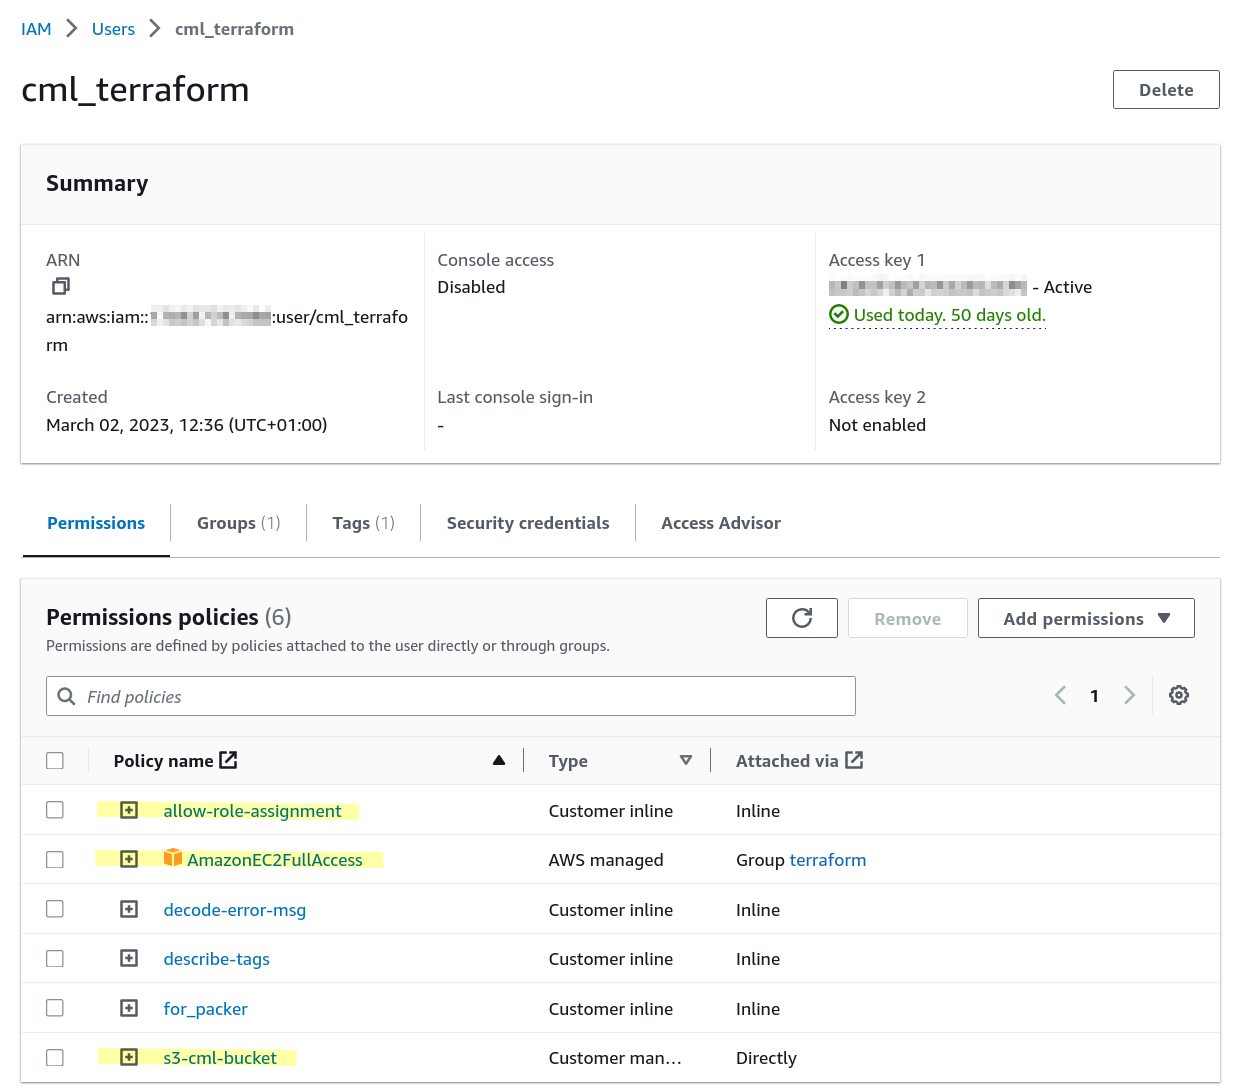
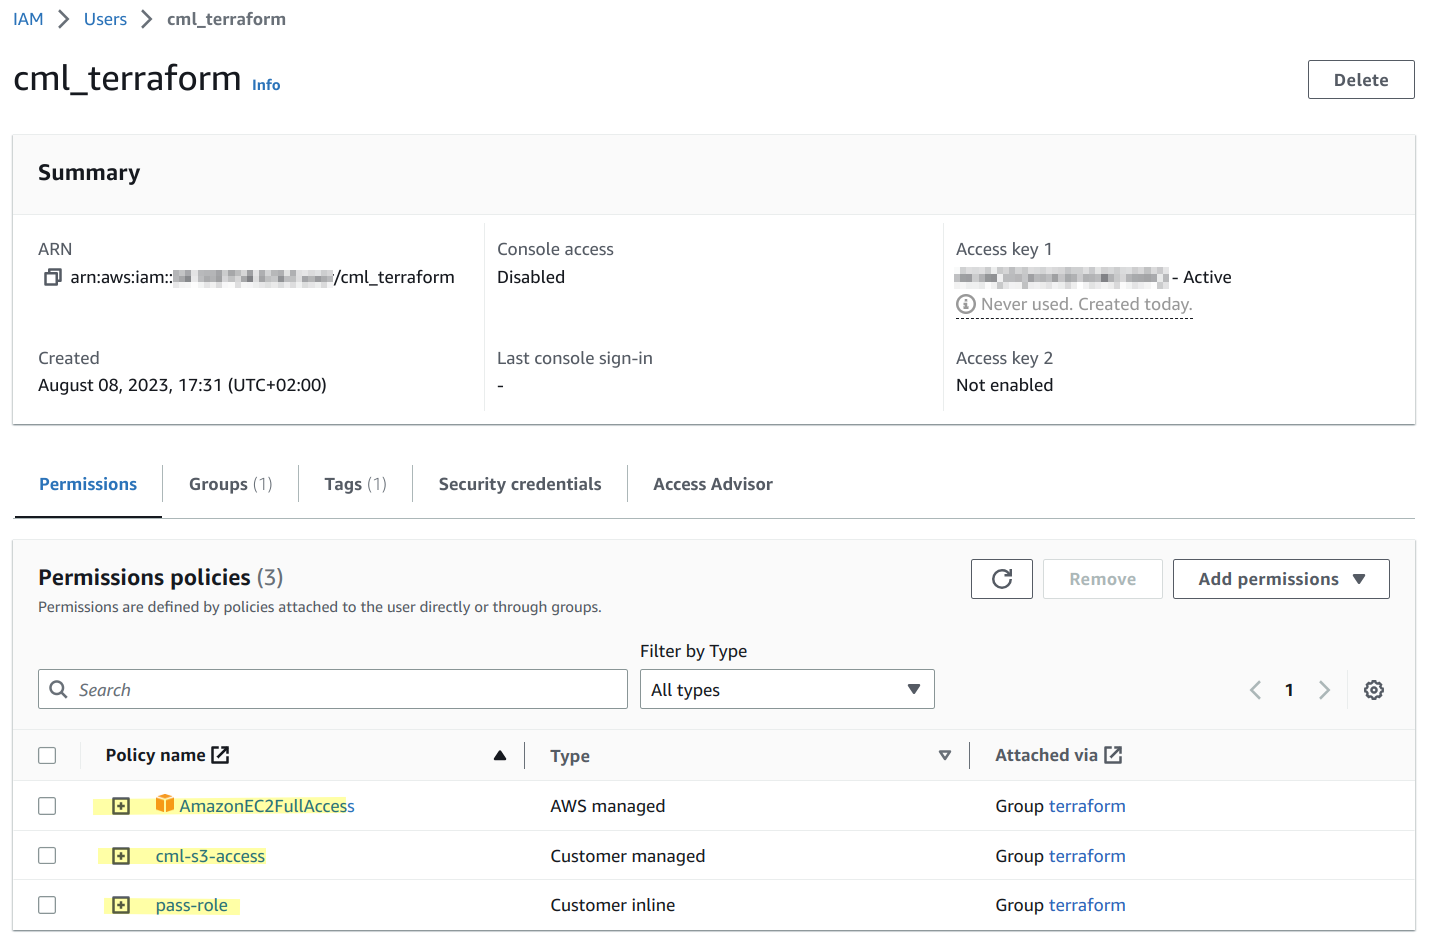
documentation improvement and small fixes
- improved upload tool, fixes #2
    - better error handling in case no images are available
    - modified help text
- completely reworked the AWS policy creation section to
  provide step-by-step instructions to accurately describe the
  policy creation process
- better describe where the .deb package can be found, fixes #3
- added the current ref-plat images to the `config.yml` file
- provided the current .pkg file name to the `config.yml` file

diff --git a/README.md b/README.md
@@ -1,6 +1,6 @@
 # README
 
-Version 0.1.3, June 5 2023
+Version 0.1.4, August 10 2023
 
 This repository includes scripts, tooling and documentation to provision an instance of CML on Amazon Web Services (AWS).
 
@@ -69,41 +69,22 @@ If you need to use a proxy to access AWS then define it using environment variab
 
 This section describes the resources required by the provisioning scripts to successfully deploy CML on AWS. These configurations and policies need to be created prior to using the tooling. This can be done on the AWS console or via the preferred deployment method (e.g. also via Terraform).
 
-### IAM User
+> **Note** There's also a [video on YouTube](https://youtu.be/vzgUyO-GQio) which shows all the steps outlined below.
 
-A user is needed which can be used by Terraform to deploy the CML instance. This user needs to have certain permission policies assigned. Permission policies are created and assigned via IAM, either direct to the user or via a group assignment. The required policies are listed in the next sections.
+### IAM user and group
 
-The below screen shot shows an example of such a user with the required permission policies highlighted where the name of the user is "cml_terraform".
+A user is needed which can be used by Terraform to deploy the CML instance. It is recommended to also create a group and attach the required policies to the group. A user is then created and assigned to this group in the final step below. This user inherits the policies from the group.
 
-![](images/permissions.png)
+- click "User groups"
+- click "Create group"
+- enter a name ("terraform")
+- click "Create group"
 
-#### Pass Role
+### S3 access / bucket policy
 
-This "deployment" user needs to be able to pass the role defined in the previous section to the EC2 instances it creates. The 'allow-role-assignment' policy is defined as follows:
+Next, we will create an S3 access policy which is reused to manage the bucket containing the reference platform as well as during CML deployment to allow copying the reference platform images to the EC2 instance.
 
-```json
-{
-    "Version": "2012-10-17",
-    "Statement": [
-        {
-            "Sid": "VisualEditor0",
-            "Effect": "Allow",
-            "Action": "iam:PassRole",
-            "Resource": "arn:aws:iam::ACCOUNTIDGOESHERE:role/s3-access-for-ec2"
-        }
-    ]
-}
-```
-
-> **Note** The account ID `ACCOUNTIDGOESHERE` in the policy JSON above must be replaced with your specific account ID. The account ID can be copied from the AWS management console at the top right when clicking on the logged in user. The account ID is shown in the drop down with a "copy to clipboard" button.
-
-#### EC2 Access
-
-The user needs permission to create, read, update and destroy EC2 instances. During internal testing, the predefined `AmazonEC2FullAccess` policy was permitted. This could likely be tightened further by removing unnecessary permissions.
-
-#### S3 access policy
-
-A role needs to be defined in IAM which permits access to the S3 bucket that holds the required files, software and reference platform images. Here's the JSON of an example role which has the minimum permissions defined (in the above example for the 'cml_terraform' user, the name of this permission policy is 's3-cml-bucket'):
+To create the policy, go to "Policies", then click "Create policy". There select "JSON" instead of "Visual" at the top right and paste the following JSON:
 
 ```json
 {
@@ -126,31 +107,115 @@ A role needs to be defined in IAM which permits access to the S3 bucket that hol
 }
 ```
 
-> **Note** The `bucket-name` in the resource list above needs to reflect the actual bucket name in use. This role is used to allow access to the specified S3 resource for the EC2 instance that is launched.
+Replace "bucket-name" to the bucket name of your S3 bucket. This permits Read/Write and List access to the specified bucket and all objects within that bucket.
 
-The `PutObject`, `GetObject` and `ListBucket` actions are required. Technically, the CML EC2 instance itself only needs to read and list objects. So, if this particular role is only used for the EC2 instance and not for e.g. maintenance tasks, then the `put` permission can be removed.
+> **Note** This could be further tightened by removing the "PutObject" action from the policy as the EC2 instance / the CML controller only needs read access ("GetObject") and not write access access ("PutObject"). However, to upload images into the bucket, the write access is required at least initially.
 
-To upload images into the bucket using the AWS CLI, the `PutBucket` permission from the role defined above is required. If distinct users for S3 management tasks (uploading images) and for managing EC2 instances are used, then the S3 access permission is not required for the "deployment" user.
+Click "Next" and provide a policy name, "cml-s3-access" for example. Finally, click "Create policy".
 
-#### Access role
+### Create Role
 
-Finally, a role needs to be created which ties these elements together: The policy `s3-cml-bucket` from above is attached to this role. In this example, the name of the role that was created is `s3-access-for-ec2`. Within the role, the `s3-cml-bucket` permission policy is added. The name of this role is then referenced within the "pass role" permission added to the deployment user. Ensure that the name of the access role matches the name that is configured in the "pass role" permission policy of the deployment user.
+Now that we have the S3 access policy, we can create a role that uses this policy.
 
-This 'access role' is then configured in the `config.yml` attribute 'aws.profile' (see below).
+1. go to "Roles"
+2. click "Create role"
+3. select "AWS service" for the "Trusted entity type" (the default)
+4. select "EC2" for the "Use case"
+5. click "Next"
+6. select the S3 access policy that was created in the previous section ("cml-s3-access") from the permission policy list
+7. scroll to the bottom and click "Next"
+8. provide a role name, use "s3-access-for-ec2" (this is important to note as this is the policy name that is also referenced in the Terraform configuration to deploy CML)
+9. click "Create role" at the bottom right
+
+### Attach policies to user
+
+In the third step we attach permission policies to the group created in the step above. The policies in question are 
+
+- AmazonEC2FullAccess, a pre-defined policy that allows to control EC2 instances
+- cml-s3-access, the S3 access policies allowing users in this group to read/write/list objects in the bucket specified by the policy
+- the "pass role" policy which passes the permission allowing access to the S3 bucket to EC2 instances the users in this group create
+
+To add these permission follow these steps:
+
+#### EC2 policy
+
+- click on "Add permissions"
+- select "Add permissions" from the drop down
+- select "Attach policies directly"
+- search for "EC2Full" which will result in the "AmazonEC2FullAccess" policy
+- select this policy
+- click "Next"
+- click "Add permissions"
+
+#### S3 access policy
+
+- click on "Add permissions"
+- select "Add permissions" from the drop down
+- select "Attach policies directly"
+- select "Customer managed" in the "Filter by type" drop down
+- select the "cml-s3-access" customer managed policy (the one we created above)
+- click "Next"
+- click "Add permissions"
+
+#### Pass role policy
+
+- click on "Add permissions"
+- select "Create inline policy" from the drop down
+- click on "IAM" from the "Select a service" section
+- click on the "Write" Access level section
+- select the "PassRole" write action
+- in the "Resources" section click "Add arn"
+- in the dialog "Specify ARNs"
+  - click "This account"
+  - in the last field, add the "cml-s3-access" policy to the end of the arn. It will look like "arn:aws:iam::111111111111111:role/cml-s3-access" (where the numbers represent your account ID, which is already inserted for you by the UI)
+  - click "Add ARN"
+- click "Next"
+- provide a Policy name, "pass role" works
+- click "Create policy"
+
+#### Create user
+
+The final step is to create a user and associate it with the group
+
+- click on "Users"
+- click "Add users"
+- provide a user name
+- click "Next"
+- select "Add user to group" (the default)
+- select the group previously created ("terraform")
+- click "Next"
+- click "Create user"
+
+#### Create credentials
+
+The final step is about creating access credentials that can be used with Terraform. We need an access key and a secret key. 
+
+- click on "Users"
+- select the "cml_terraform" user
+- click on the "Security credentials" tab
+- scroll down to the "Access keys" section
+- click on "Create access key"
+- make a note of the access key and the secret key (copy them into an editor so that they can be later used when editing the `config.yml` of the deployment tool)
+
+This access key and the associated secret key must be provided to the AWS Terraform provider via the the variables `access_key` and `secret_key`, ideally via environment variables or a vault. See the Variables section below.
+
+#### Example
+
+The below screen shot shows an example of such a user with the required permission policies highlighted where the name of the user is "cml_terraform". Note that the required permission policies are listed. They are inherited from the "terraform" group. There's also an access key that has been created for this user.
+
+![image-20230810161432721](./images/permissions.png)
+
+This role that is passed ("s3-access-for-ec2") is then configured in the `config.yml` attribute 'aws.profile'.
+
+![image-20230810162352026](images/perm-details.png)
 
 The following diagram outlines the relation between the various IAM elements:
 
 ![image](images/policies.png)
 
-### Security credentials
-
-Within IAM, for the user created, an access key needs to be created. This access key and the associated secret key must be provided to the AWS Terraform provider via the the variables `access_key` and `secret_key`, ideally via environment variables or a vault. See the Variables section below.
-
-Generate an access key via IAM → Users → "username" → Security Credentials → Create access key
-
 ### Other resources
 
-In addition to the user policies set in the previous step, the following resources for a successful deployment are required.
+In addition to the user and group policies set in the previous steps, the following resources for a successful deployment are required.
 
 #### Key name
 
@@ -244,6 +309,8 @@ There are currently two scripts provided for CML instance customization.
 
 There's also a dummy entry in that list as the list must have at least one element. So, when not doing any of the predefined entries, at least the dummy must be present.
 
+> **Note** PATty is currently not available as a standalone .deb file. We will include it with 2.6.1 as part of the controller distribution (in addition to installing it).
+
 #### Sys section
 
 In this section, the OS user and password are defined.
@@ -303,6 +370,10 @@ Uploading the files into the S3 bucket is only required for the first time or wh
 #### Upload script
 
 The upload tool makes it easy to quickly select and upload the software package and images to a defined S3 bucket (the bucket must exist already).
+
+> **Note** The required CML software is the "pkg" file that is available for download from the Cisco software download page.  Example: `cml2_2.6.0-5_amd64-5.pkg`. Note the .pkg suffix.
+>
+> Placing the .pkg file into the directory with the upload tool will automatically extract the needed Debian package and offer the user to upload that package to the S3 bucket.
 
 Start the tool by providing the bucket name as an argument and the location of the reference platform images. The defaults for both are `aws-cml-images` for the bucket name and `/var/lib/libvirt/images` for the reference platform image location.
 

diff --git a/CHANGELOG.md b/CHANGELOG.md
@@ -2,6 +2,17 @@
 
 Lists the changes for the tool releases.
 
+## Version 0.1.4
+
+- improved upload tool
+    - better error handling in case no images are available
+    - modified help text
+- completely reworked the AWS policy creation section to
+  provide step-by-step instructions to accurately describe the
+  policy creation process
+- added the current ref-plat images to the `config.yml` file
+- provided the current .pkg file name to the `config.yml` file
+
 ## Version 0.1.3
 
 - documentation update
